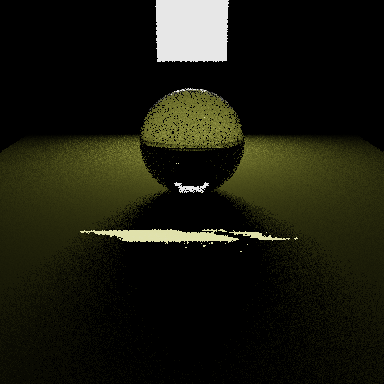
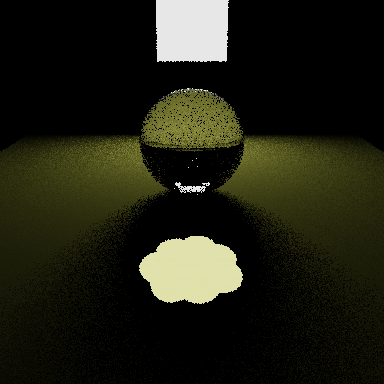
Fixed image

Changed region(s): [[0.1875, 0.2188, 0.75, 0.8125], [0.7812, 0.75, 0.8438, 0.7812], [0.7812, 0.6875, 0.8125, 0.7188]]

diff --git a/pathtracer.cpp b/pathtracer.cpp
@@ -13,7 +13,7 @@
 using namespace Eigen;
 
 bool doStylizedCaustics = true;
-bool useGreedyMethod = false;
+bool useGreedyMethod = true;
 
 const double albedo = 0.75;
 PathTracer::PathTracer(Scene *scene,
@@ -38,11 +38,11 @@ PathTracer::PathTracer(Scene *scene,
     if (m_usePhotonMapping) {
         generatePhotons(*scene);
         if(doStylizedCaustics) {
-            stylizedCaustics = StylizedCaustics(2, 1.5);
+            stylizedCaustics = StylizedCaustics(3, 6);
             // Sample images
-            auto imageSamples = stylizedCaustics.sample(531, 171, caustic_img);
+            auto imageSamples = stylizedCaustics.sample(caustic_img);
             // Set plane
-            plane = Plane(0, Eigen::Vector3f(0, 0, 2), Eigen::Vector3f(0, 1, 0));
+            plane = Plane(0, Eigen::Vector3f(0.05, 0, 3), Eigen::Vector3f(0, 1, 0));
             // Projection
             auto& photons = pmap_caustic.photons;
             // (1) calculate average origin
@@ -81,7 +81,7 @@ PathTracer::PathTracer(Scene *scene,
 
             std::vector<Eigen::Vector2f> A = stylizedCaustics.getSources();
             std::vector<Eigen::Vector2f> B(A.size());
-            std::cout <<"A.size()" << A.size() << std::endl;
+            std::cout <<"A.size() " << A.size() << std::endl;
             for(int i = 0; i< A.size(); i++){
                 Eigen::Vector3d tempt(A[i][0], A[i][1], 0);
                 Eigen::Vector3d result = m_tps.interpolate(tempt);

diff --git a/stylized/imagesampler.cpp b/stylized/imagesampler.cpp
@@ -8,16 +8,17 @@ ImageSampler::ImageSampler(float width, float height)
 
 }
 
-std::vector<Eigen::Vector2f> ImageSampler::sample(int imageWidth, int imageHeight, std::string path) {
+std::vector<Eigen::Vector2f> ImageSampler::sample(std::string path) {
     std::vector<Eigen::Vector2f> res;
 
-    QImage image(imageWidth, imageHeight, QImage::Format_RGB32);
+    QImage image;
     if(!image.load(QString::fromStdString(path)))
         std::cout << "Load image:" << path << " failed" << std::endl;
-    for(int i = 0; i < imageHeight; i++) {
-        for(int j = 0; j < imageWidth; j++) {
+
+    for(int i = 0; i < image.height(); i++) {
+        for(int j = 0; j < image.width(); j++) {
             if(image.pixel(j, i) != 0xffffffff)
-                res.push_back({(float)j / imageWidth * width - width / 2.0f, (float)i / imageHeight * height - height / 2.0f});
+                res.push_back({(float)j / image.width() * width - width / 2.0f, (float)i / image.height() * height - height / 2.0f});
         }
     }
 

diff --git a/stylized/stylizedcaustics.cpp b/stylized/stylizedcaustics.cpp
@@ -20,9 +20,9 @@ StylizedCaustics::StylizedCaustics(float width, float height)
     g = std::mt19937(rd());
 }
 
-std::vector<Eigen::Vector2f> StylizedCaustics::sample(int imageWidth, int imageHeight, std::string path) {
+std::vector<Eigen::Vector2f> StylizedCaustics::sample(std::string path) {
     ImageSampler imageSampler(width, height);
-    return imageSampler.sample(imageWidth, imageHeight, path);
+    return imageSampler.sample(path);
 }
 
 void StylizedCaustics::project(const Scene& scene, const std::vector<Photon> photons, Plane& plane) {

diff --git a/stylized/stylizedcaustics.h b/stylized/stylizedcaustics.h
@@ -16,7 +16,7 @@ public:
     StylizedCaustics();
     StylizedCaustics(float width, float height);
 
-    std::vector<Eigen::Vector2f> sample(int width, int height, std::string path);
+    std::vector<Eigen::Vector2f> sample(std::string path);
     void project(const Scene& scene, const std::vector<Photon> photons, Plane& plane);
     void assign(std::vector<Eigen::Vector2f>& images);
     void refine(std::vector<Eigen::Vector2f> I);

diff --git a/stylized/imagesampler.h b/stylized/imagesampler.h
@@ -10,7 +10,7 @@ class ImageSampler
 public:
     ImageSampler(float width, float height);
 
-    std::vector<Eigen::Vector2f> sample(int imageWidth, int imageHeight, std::string path);
+    std::vector<Eigen::Vector2f> sample(std::string path);
 
 private:
     float width, height;
